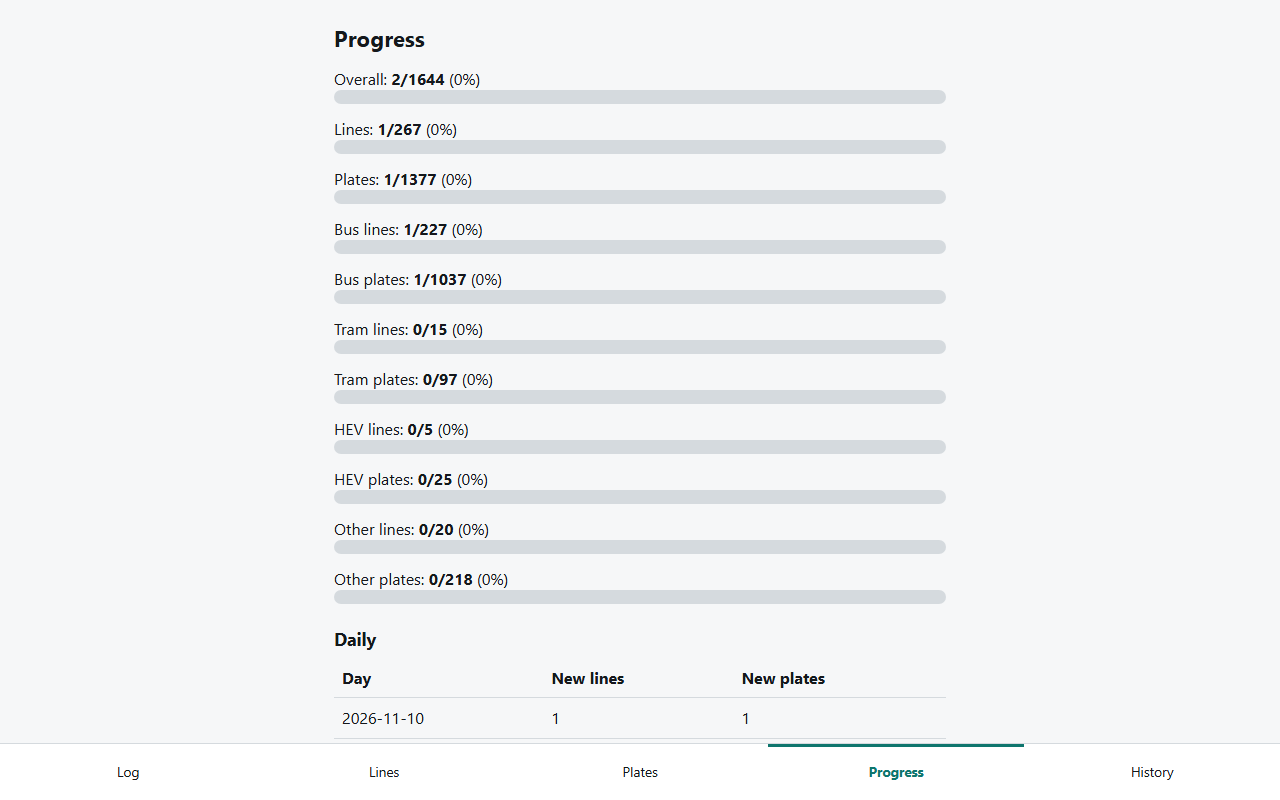
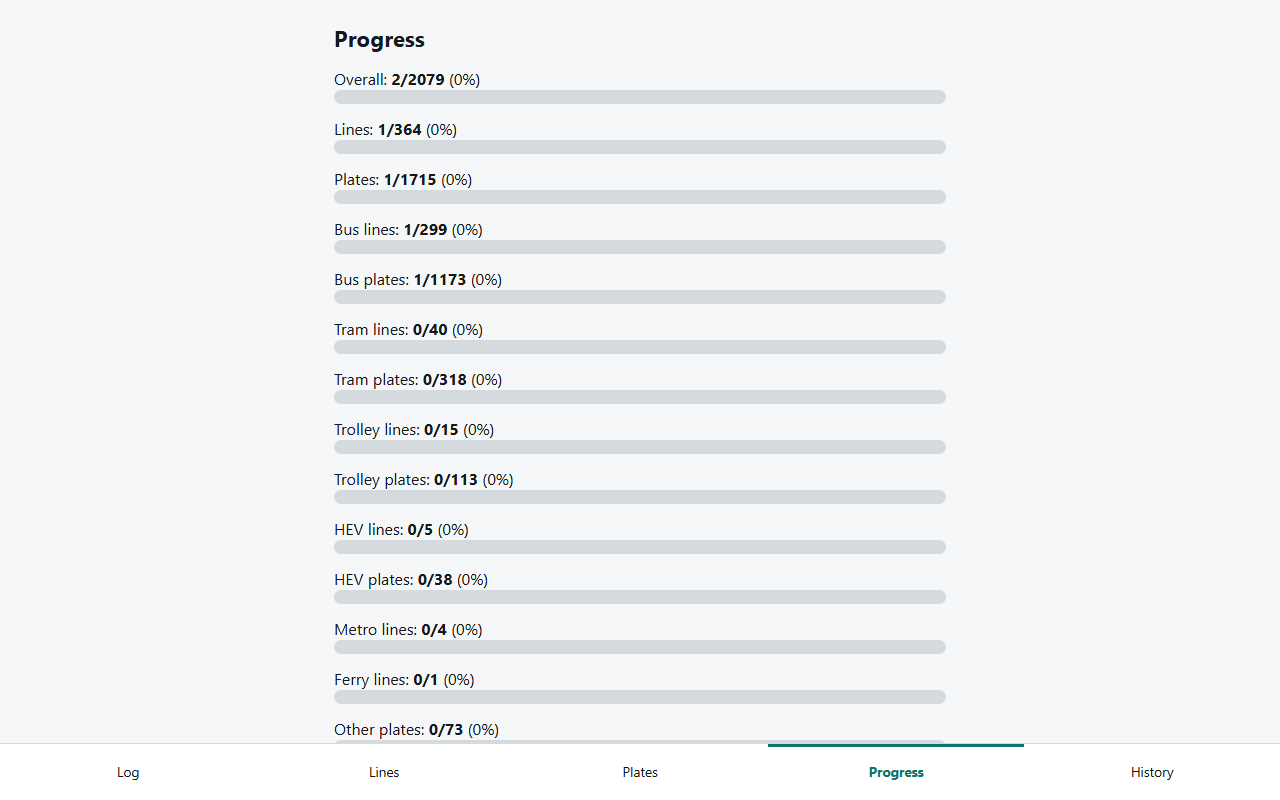
Use official BKK line numbers and types; refresh vehicle catalog
Catalog now has 364 official lines and 1714 plates; trolleybuses and
trams are typed from the BKK timetable, trains are excluded.

diff --git a/js/app.js b/js/app.js
@@ -2,7 +2,7 @@
 // BKV Challenge: offline-first ride log. Data lives in IndexedDB on this device only.
 
 const $ = (id) => document.getElementById(id);
-const TYPES = { ALL: "All", BUS: "Bus", TRAM: "Tram", TROLLEYBUS: "Trolley", HEV: "HEV", OTHER: "Other" };
+const TYPES = { ALL: "All", BUS: "Bus", TRAM: "Tram", TROLLEYBUS: "Trolley", HEV: "HEV", SUBWAY: "Metro", FERRY: "Ferry", OTHER: "Other" };
 const typeOf = (t) => (TYPES[t] && t !== "ALL" ? t : "OTHER");
 const normLine = (s) => s.trim().toUpperCase();
 const normPlate = (s) => s.replace(/\s+/g, "").toUpperCase();
@@ -126,9 +126,8 @@ function renderProgress() {
   const nodes = [bar("Overall", ld + pd, L.length + P.length), bar("Lines", ld, L.length), bar("Plates", pd, P.length)];
   Object.keys(TYPES).filter((t) => t !== "ALL").forEach((t) => {
     const lt = L.filter((l) => typeOf(l.type) === t), pt = P.filter((p) => typeOf(p.type) === t);
-    if (!lt.length && !pt.length) return;
-    nodes.push(bar(`${TYPES[t]} lines`, lt.filter((l) => cl.has(l.id)).length, lt.length));
-    nodes.push(bar(`${TYPES[t]} plates`, pt.filter((p) => cp.has(p.plate)).length, pt.length));
+    if (lt.length) nodes.push(bar(`${TYPES[t]} lines`, lt.filter((l) => cl.has(l.id)).length, lt.length));
+    if (pt.length) nodes.push(bar(`${TYPES[t]} plates`, pt.filter((p) => cp.has(p.plate)).length, pt.length));
   });
   $("progress").replaceChildren(...nodes);
 

diff --git a/sw.js b/sw.js
@@ -1,4 +1,4 @@
-const CACHE = "bkv-challenge-v1";
+const CACHE = "bkv-challenge-v2";
 const ASSETS = ["./", "index.html", "css/app.css", "js/app.js", "data/catalog.json", "manifest.webmanifest", "icons/icon.svg", "icons/icon-192.png", "icons/icon-512.png"];
 
 self.addEventListener("install", (e) => {

diff --git a/tools/build_catalog.py b/tools/build_catalog.py
@@ -1,50 +1,50 @@
-"""Build data/catalog.json (lines + plates) from a bkv-tracker sightings.json."""
+"""Build data/catalog.json (official lines + seen vehicle plates).
+
+Inputs come from the sibling bkv-tracker project:
+  routes.json     official BKK line numbers and types (python tracker.py routes)
+  sightings.json  vehicles seen in the live feed (python tracker.py scan / monitor)
+
+Usage: python tools/build_catalog.py [tracker_dir]
+"""
 import json
 import sys
 from pathlib import Path
 
-SRC = Path(sys.argv[1]) if len(sys.argv) > 1 else Path(__file__).parents[2] / "bkv-tracker" / "sightings.json"
+TRACKER = Path(sys.argv[1]) if len(sys.argv) > 1 else Path(__file__).parents[2] / "bkv-tracker"
 OUT = Path(__file__).parents[1] / "data" / "catalog.json"
 
-
-def route_id_to_public(route_id: str) -> str:
-    """Copied from bkv-tracker/tracker.py (approximate public line number)."""
-    rid = (route_id or "").strip()
-    if not rid:
-        return ""
-    if not rid.isdigit():
-        return rid
-    num = int(rid)
-    public, suffix = num // 10, num % 10
-    if suffix == 0:
-        return str(public)
-    if suffix == 5:
-        return f"{public}E"
-    if suffix == 1:
-        return f"{public}A"
-    if suffix == 2:
-        return f"{public}B"
-    return str(public) + chr(64 + suffix)
+# When one line number is used by two modes (e.g. tram 4 and its replacement bus 4), keep the real line.
+PRIORITY = ["SUBWAY", "TRAM", "TROLLEYBUS", "HEV", "FERRY", "BUS"]
 
 
 def main():
-    data = json.load(open(SRC, encoding="utf-8"))
-    lines, plates = {}, {}
-    for s in data.values():
-        t = s.get("type", "UNKNOWN")
-        pubs = sorted({route_id_to_public(r) for r in s.get("routes_seen_on", []) if r})
-        for p in pubs:
-            if p not in lines or lines[p] == "UNKNOWN":
-                lines[p] = t
+    routes = json.load(open(TRACKER / "routes.json", encoding="utf-8"))
+    sightings = json.load(open(TRACKER / "sightings.json", encoding="utf-8"))
+
+    lines = {}
+    for r in routes.values():
+        name, t = r["name"], r["type"]
+        if name not in lines or PRIORITY.index(t) < PRIORITY.index(lines[name]):
+            lines[name] = t
+
+    plates = {}
+    for s in sightings.values():
         plate = (s.get("license_plate") or "").replace(" ", "").upper()
-        if plate:
-            plates[plate] = {"plate": plate, "type": t, "lines": pubs}
+        t = s.get("type", "UNKNOWN")
+        if not plate or t == "TRAIN":  # MAV/GYSEV trains are not BKV vehicles
+            continue
+        names = sorted({routes[r]["name"] for r in s.get("routes_seen_on", []) if r in routes})
+        plates[plate] = {"plate": plate, "type": t, "lines": names}
+
     out = {
         "lines": [{"id": k, "label": k, "type": v} for k, v in sorted(lines.items())],
         "plates": sorted(plates.values(), key=lambda p: p["plate"]),
     }
     OUT.write_text(json.dumps(out, ensure_ascii=False, separators=(",", ":")), encoding="utf-8")
-    print(len(out["lines"]), "lines,", len(out["plates"]), "plates ->", OUT)
+    kinds = {}
+    for p in out["plates"]:
+        kinds[p["type"]] = kinds.get(p["type"], 0) + 1
+    print(len(out["lines"]), "lines,", len(out["plates"]), "plates", kinds, "->", OUT)
 
 
 main()

diff --git a/README.md b/README.md
@@ -35,13 +35,15 @@ The app is published with GitHub Pages: https://yeerooxy.github.io/bkv-challenge
 
 ## Catalog
 
-`data/catalog.json` lists known lines and plates. It was built from the live BKK vehicle feed by the sibling `bkv-tracker` tool:
+`data/catalog.json` has every official BKK line (from the BKK timetable data, so line numbers and types are exact) and every vehicle plate seen in the live BKK feed. The plate list only grows as the feed is scanned, so it is not the full fleet yet. Rebuild it from the sibling `bkv-tracker` project:
 
 ```
-python tools/build_catalog.py [path/to/sightings.json]
+python tracker.py routes     # in bkv-tracker: official lines and types
+python tracker.py scan       # in bkv-tracker: add vehicles currently on the road
+python tools/build_catalog.py
 ```
 
-Line numbers are derived from BKK internal route ids and are approximate. Trolleybus lines are not tagged yet, so they show under Other until they appear in a feed scan. Types TRAIN and UNKNOWN also show under Other.
+When a line number is shared by two modes (tram 4 and its replacement bus 4), the real line wins. MAV/GYSEV trains are left out. Vehicles seen without a line are listed as Other until they are seen on one.
 
 ## Checks
 
